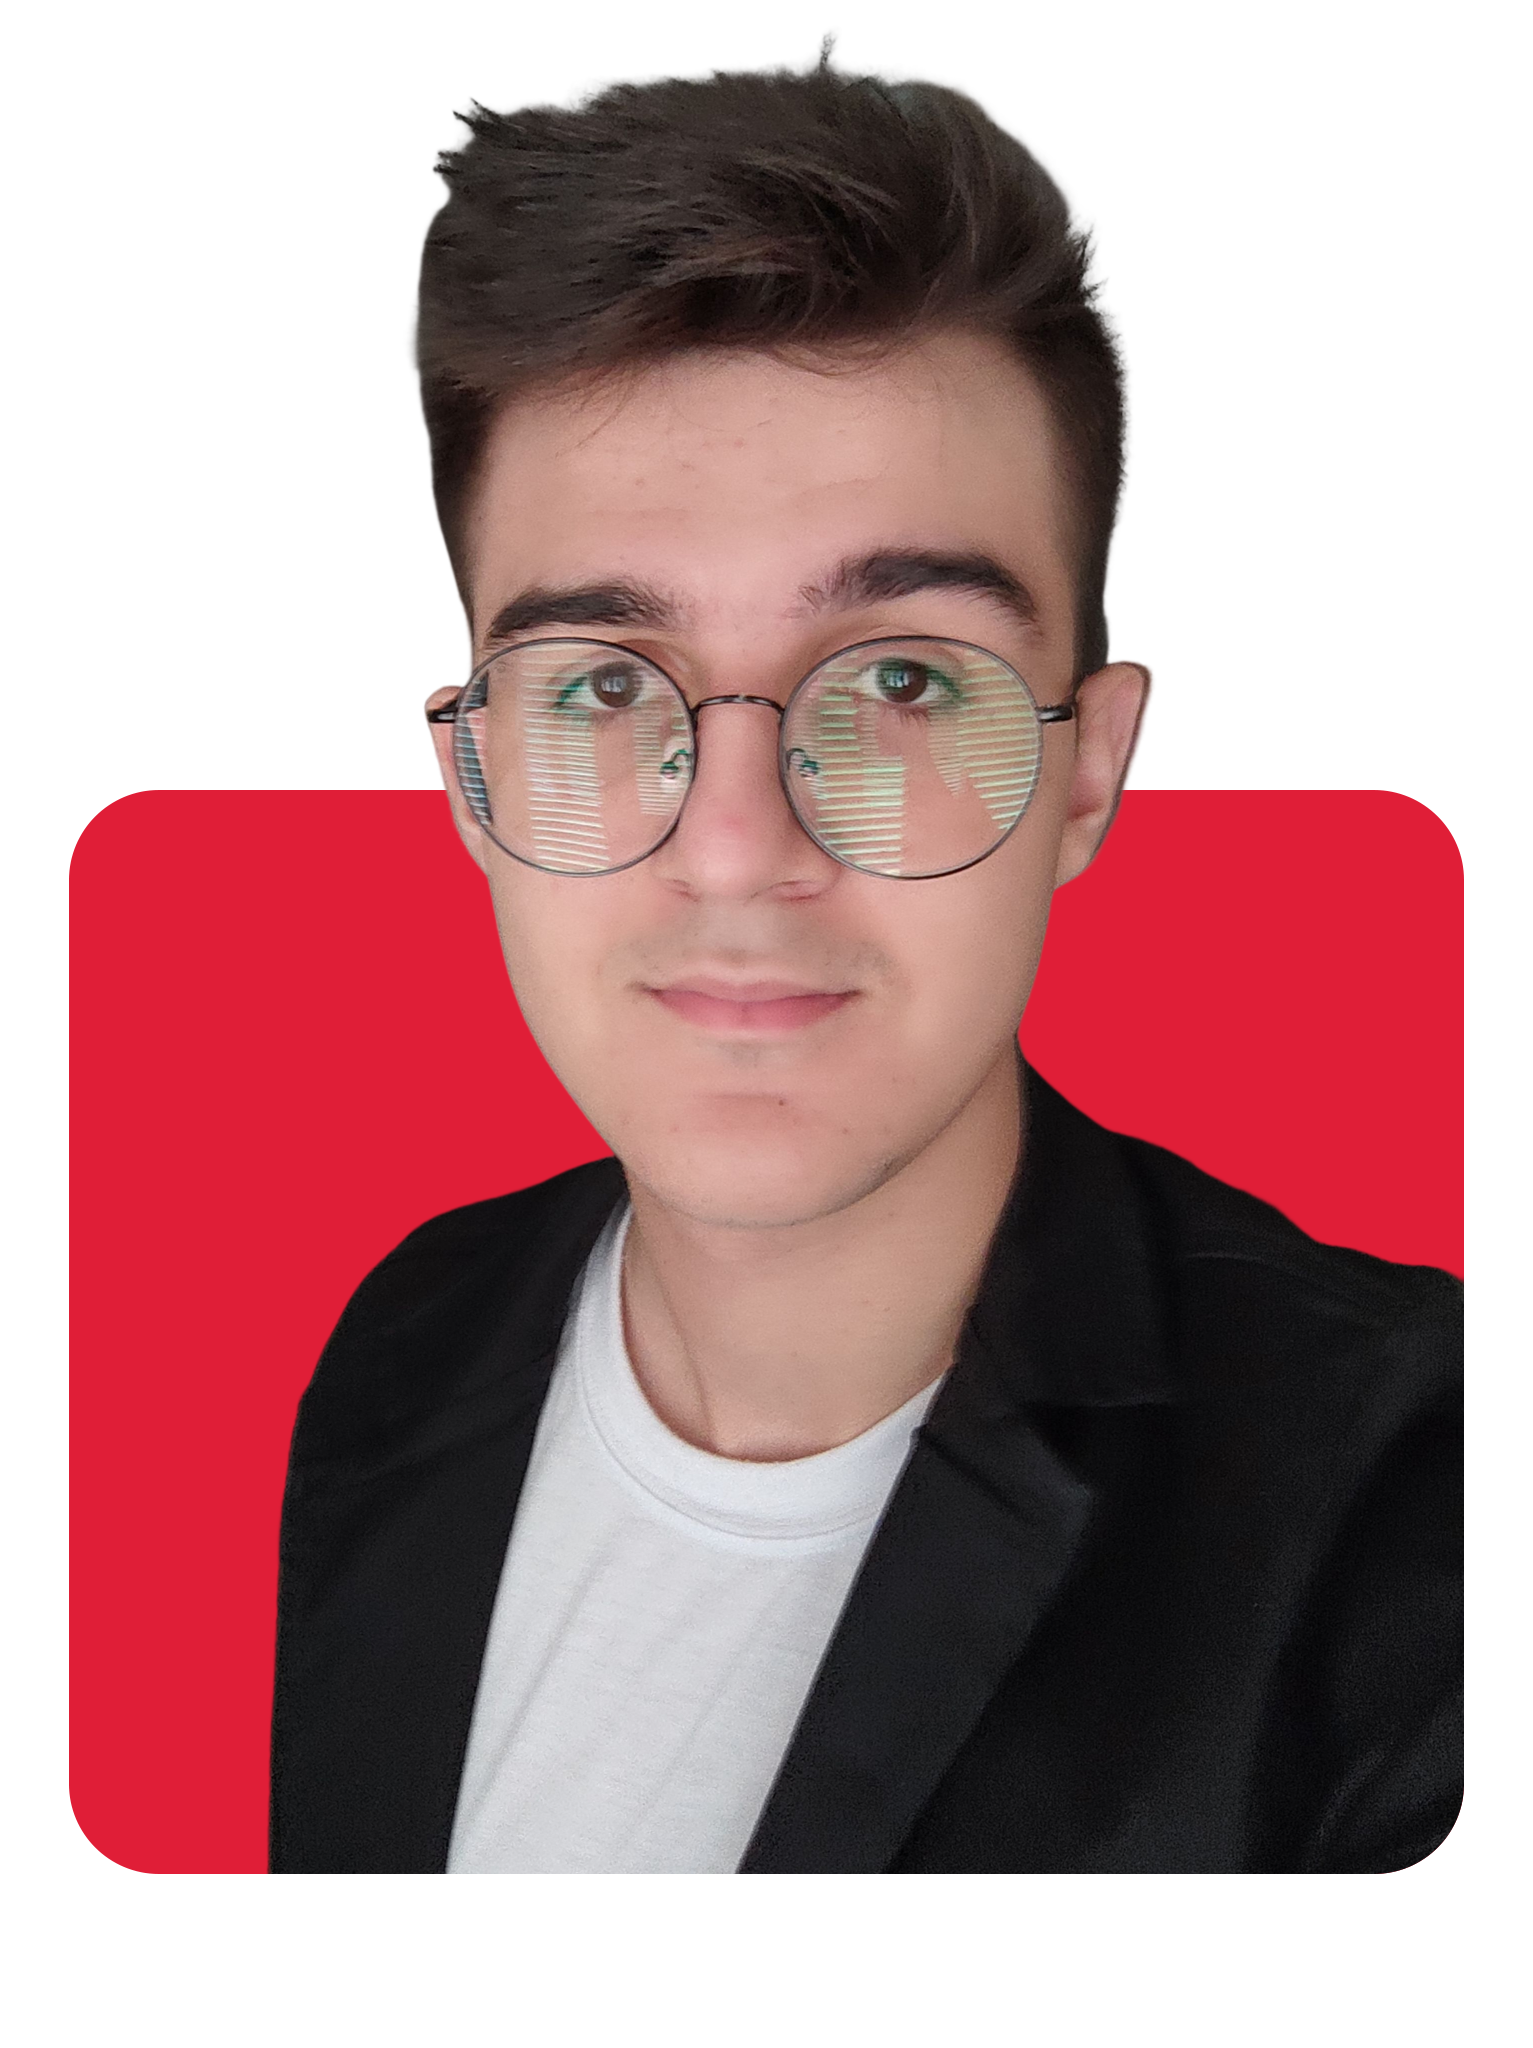
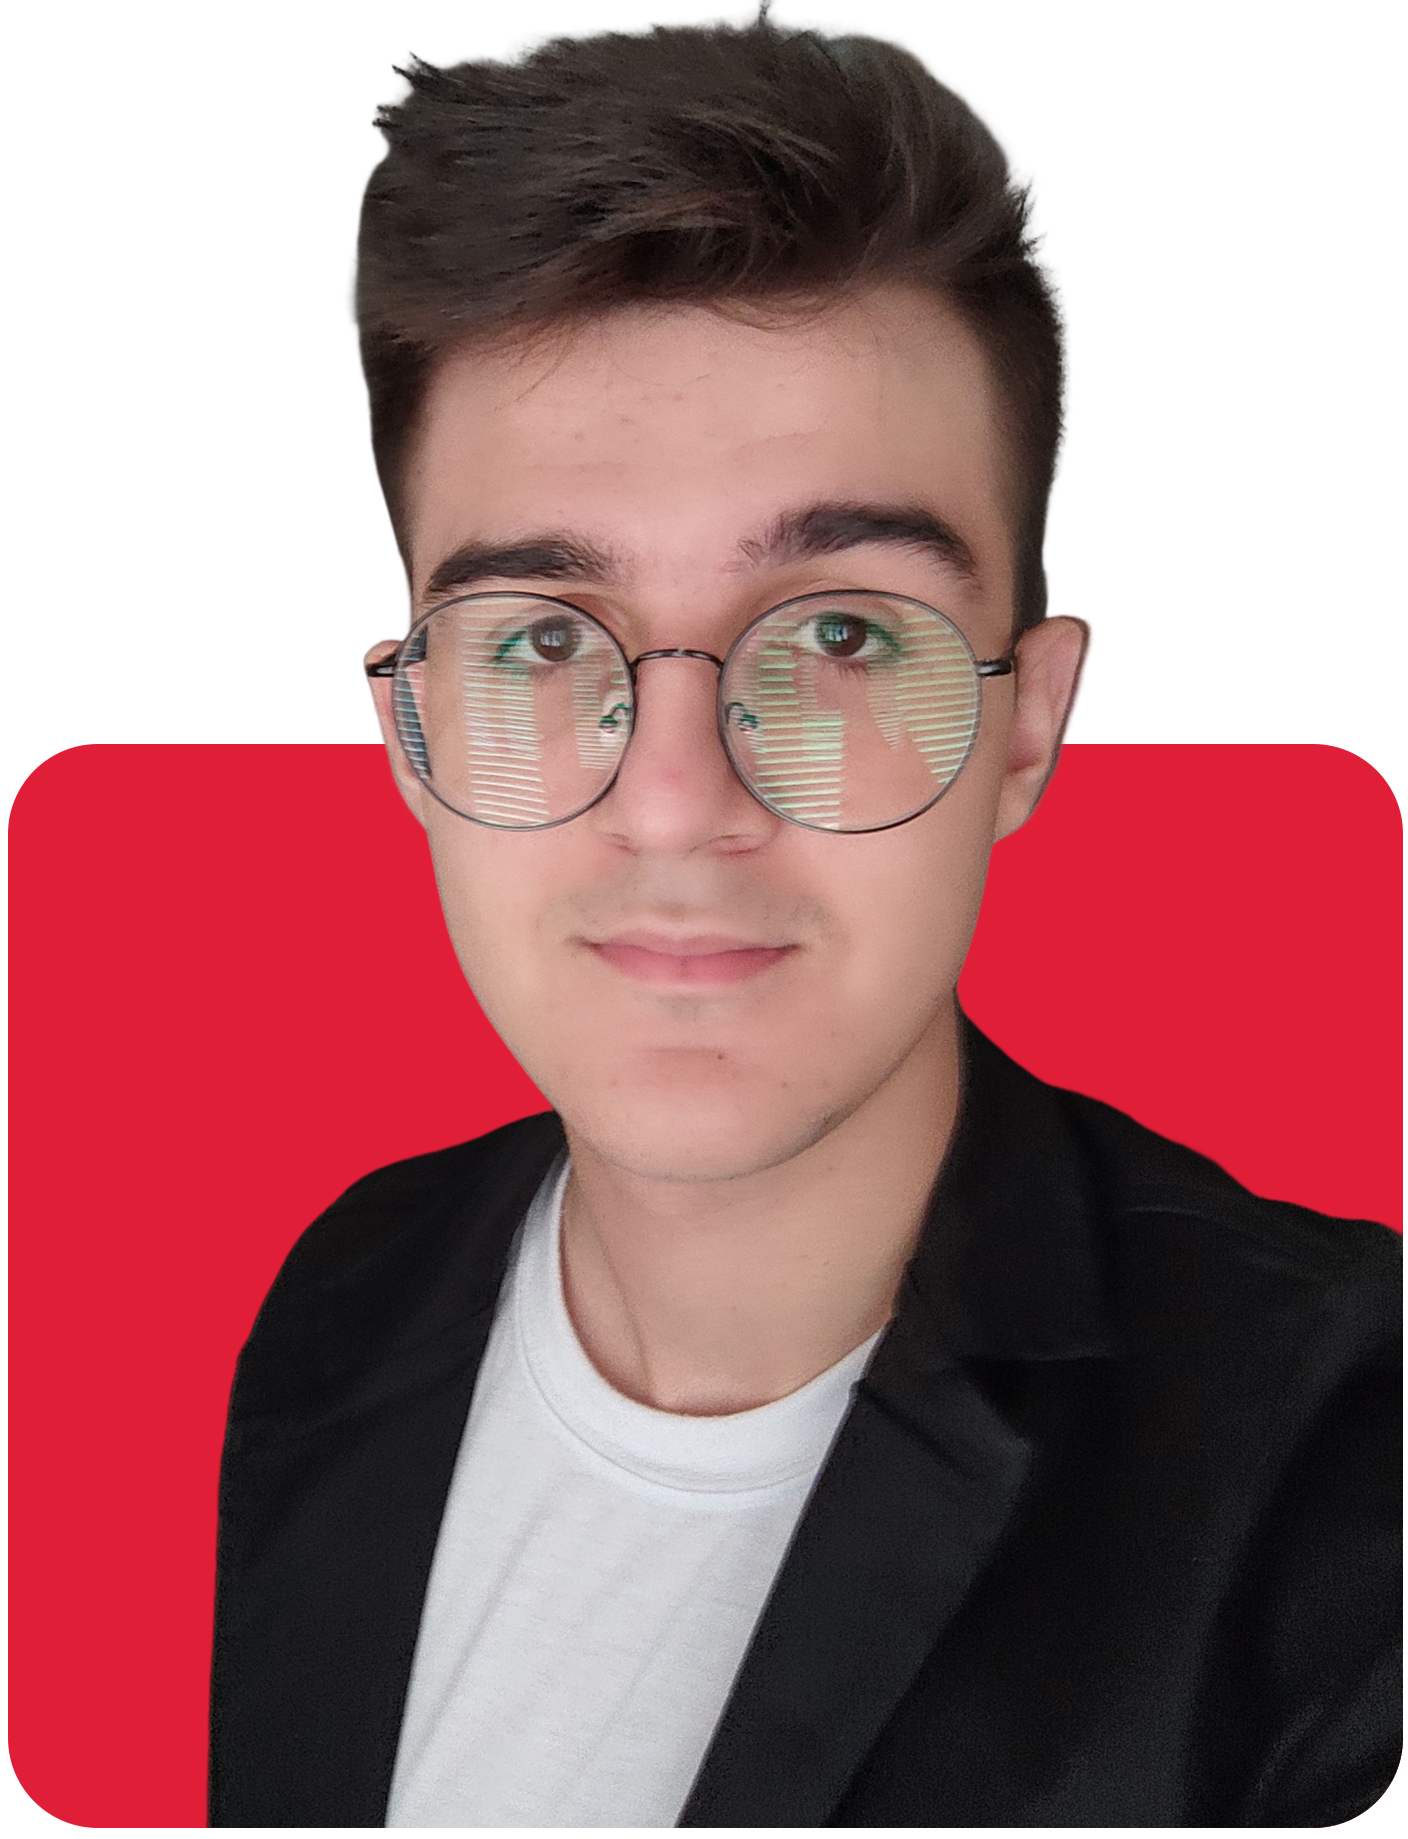
Flex Responsive

Changed region(s): [[0.0, 0.0, 1.0, 1.0], [0.6875, 0.7129, 0.75, 0.8059], [0.6562, 0.8059, 0.6875, 0.8369]]

diff --git a/src/components/MainComponent.vue b/src/components/MainComponent.vue
@@ -32,7 +32,6 @@
   justify-content: center;
   padding: 5rem 2rem;
   margin: auto;
-  
 }
 
 .profile-content {
@@ -44,6 +43,7 @@
 
 .profile-photo {
   width: 23rem;
+  margin: auto;
 }
 
 .profile-details {
@@ -95,7 +95,31 @@
 }
 
 @media (max-width: 1023px) {
+  .profile-section {
+    padding: 0rem 2rem;
+  }
 
- 
+  .profile-content {
+    flex-direction: column-reverse;
+    gap: 0;
+  }
+
+  .profile-details {
+    margin-top: 0;
+    margin-bottom: 2rem;
+  }
+
+  .introduction {
+    text-align: center;
+    margin: 0 auto;
+  }
+
+  .description{
+    text-align: center;
+  }
+}
+
+@media (max-width:768px) {
+  
 }
 </style>
